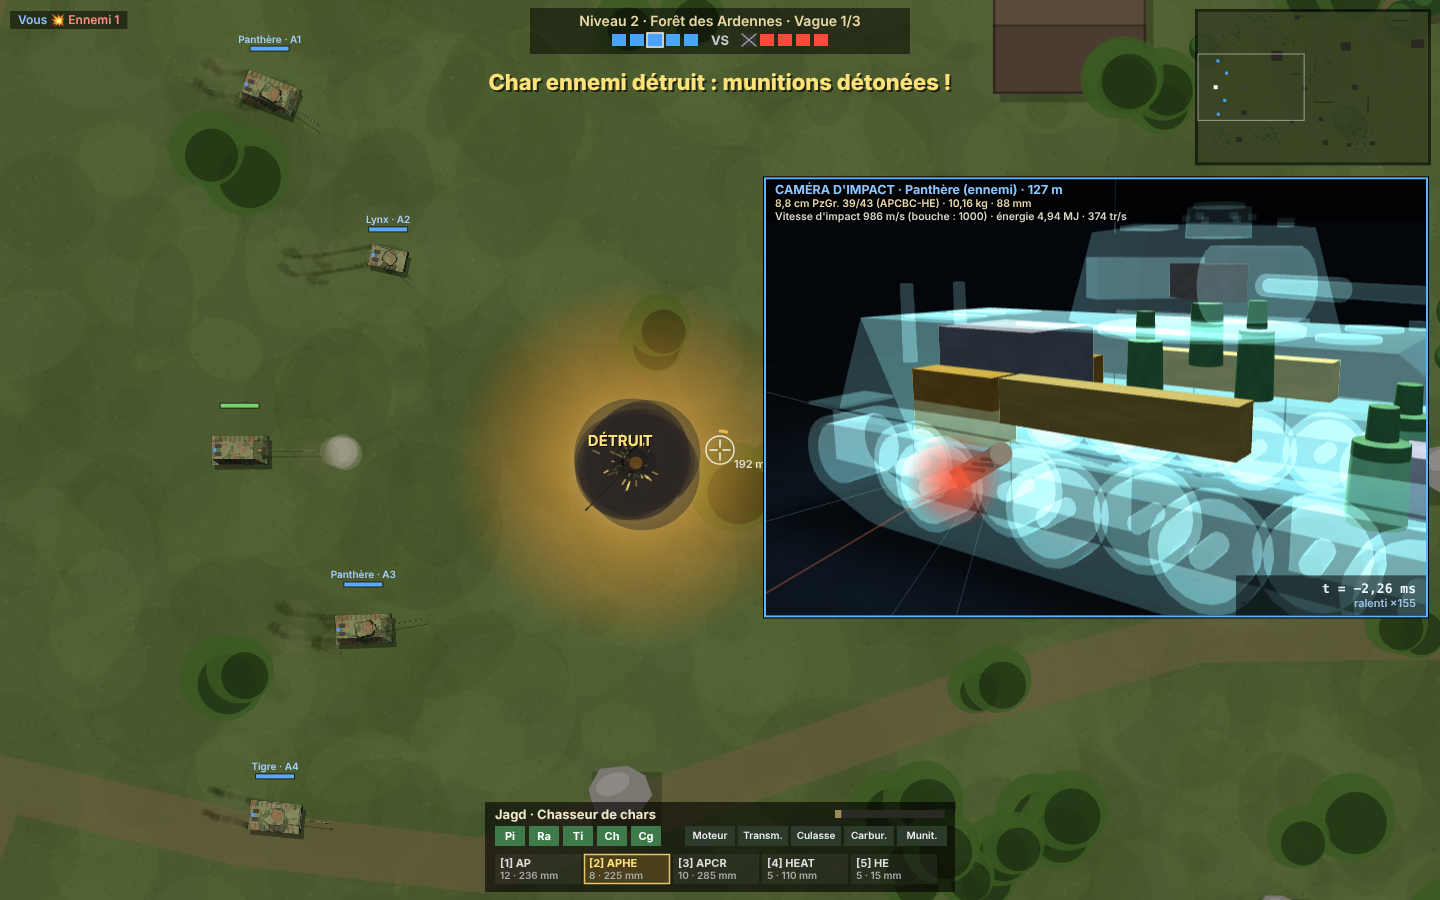
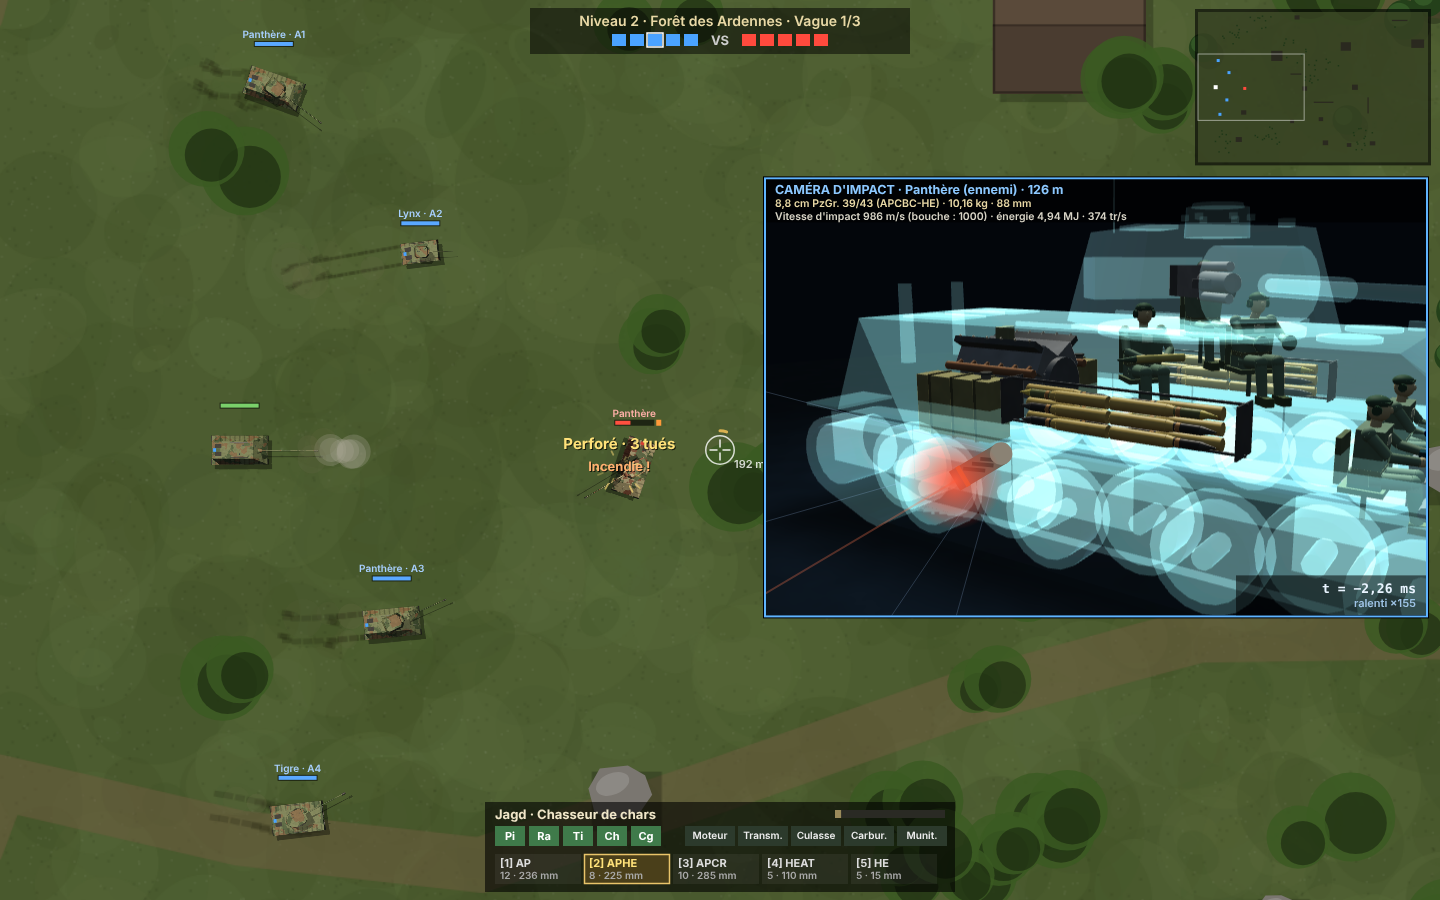
Détaille les modules de la vue rayons X : équipage humanoïde, moteur, soutes, culasse
- tankistes assis à leur poste (tenue, calot, casque radio, pose selon le rôle)
- moteur V12, transmission, réservoirs, obus rangés un par un, culasse avec freins de recul
- état des modules affiché par une teinte, étiquettes des modules dans la vitrine aux rayons X

Claude-Session: https://claude.ai/code/session_01UawdUy53uD1JS9wU4a7nKn

diff --git a/chars/models.js b/chars/models.js
@@ -329,6 +329,160 @@ const TankModels = (() => {
     return { S, I, hull: hb, turret: tb };
   }
 
+
+  // ===================== Modules internes détaillés (vue rayons X) =====================
+  // Chaque maillage est construit dans le repère du module (centre de sa boîte), à la vraie taille.
+  const UNI = '#4d5550', SKIN = '#d8a983', BOOT = '#2a1e16', CAP = '#1b1c1e', STEELM = '#6d7075', DARKM = '#34363a', BRASS = '#c9a24a';
+  // boîte inclinée autour de l'axe x (bancs de cylindres en V)
+  function tiltBox(b, cx, cy, cz, sx, sy, sz, a, col, mat) {
+    const c = Math.cos(a), s = Math.sin(a);
+    const pt = (x, y, z) => [cx + x, cy + y * c - z * s, cz + y * s + z * c];
+    const x0 = -sx / 2, x1 = sx / 2, y0 = -sy / 2, y1 = sy / 2, z0 = -sz / 2, z1 = sz / 2;
+    b.hexa([pt(x0, y0, z0), pt(x1, y0, z0), pt(x1, y1, z0), pt(x0, y1, z0)], [pt(x0, y0, z1), pt(x1, y0, z1), pt(x1, y1, z1), pt(x0, y1, z1)], col, mat);
+  }
+  // Membre d'équipage assis, tourné vers l'avant (+x), selon son poste
+  function crewMesh(b, sz, role) {
+    const k = sz / 1.05, z0 = -sz / 2;
+    const P = (x, y, z) => [x * k, y * k, z0 + z * k];
+    const cyl = (a, c, r0, r1, col) => b.cyl(P(...a), P(...c), r0 * k, (r1 == null ? r0 : r1) * k, 12, col, 7);
+    const sph = (c, rx, ry, rz, col) => b.sphere(P(...c), rx * k, (ry == null ? rx : ry) * k, (rz == null ? rx : rz) * k, 10, col, 7);
+    const box = (c, sx, sy, sz2, col) => { const q = P(...c); b.box(q[0], q[1], q[2], sx * k, sy * k, sz2 * k, col, 7); };
+    const lift = role === 'commander' ? 0.06 : 0;
+    // siège et dossier
+    box([-0.12, 0, 0.3 + lift], 0.38, 0.4, 0.05, '#3b3129');
+    box([-0.33, 0, 0.55 + lift], 0.05, 0.36, 0.42, '#3b3129');
+    cyl([-0.12, 0, 0.0], [-0.12, 0, 0.28 + lift], 0.025, null, DARKM);
+    // bassin, cuisses, jambes, bottes
+    box([-0.1, 0, 0.4 + lift], 0.28, 0.34, 0.15, UNI);
+    for (const sy of [1, -1]) {
+      cyl([-0.06, sy * 0.1, 0.4 + lift], [0.28, sy * 0.1, 0.43 + lift * 0.5], 0.078, 0.07, UNI);
+      sph([0.28, sy * 0.1, 0.43 + lift * 0.5], 0.07, null, null, UNI);
+      cyl([0.28, sy * 0.1, 0.43 + lift * 0.5], [0.34, sy * 0.1, 0.08], 0.062, 0.052, UNI);
+      box([0.39, sy * 0.1, 0.045], 0.22, 0.1, 0.09, BOOT);
+    }
+    // buste (tunique noire de tankiste, ceinturon)
+    const zt = 0.46 + lift;
+    b.hexa(
+      [P(-0.21, -0.17, zt), P(0.03, -0.17, zt), P(0.03, 0.17, zt), P(-0.21, 0.17, zt)],
+      [P(-0.19, -0.205, zt + 0.4), P(0.05, -0.205, zt + 0.4), P(0.05, 0.205, zt + 0.4), P(-0.19, 0.205, zt + 0.4)], UNI, 7);
+    box([-0.09, 0, zt + 0.02], 0.25, 0.35, 0.05, '#4a3626');
+    box([0.055, 0, zt + 0.3], 0.01, 0.12, 0.08, '#c8c4b0'); // insigne de col
+    // bras selon le poste
+    let hands;
+    if (role === 'commander') hands = [[0.08, 0.07, zt + 0.52], [0.08, -0.07, zt + 0.52]];
+    else if (role === 'loader') hands = [[0.27, 0.13, zt + 0.12], [0.27, -0.13, zt + 0.12]];
+    else if (role === 'driver') hands = [[0.34, 0.19, zt + 0.08], [0.34, -0.19, zt + 0.08]];
+    else hands = [[0.34, 0.16, zt + 0.18], [0.34, -0.16, zt + 0.18]];
+    for (let i = 0; i < 2; i++) {
+      const sy = i === 0 ? 1 : -1, sh = [-0.08, sy * 0.21, zt + 0.37];
+      const el = [Math.min(0.1, hands[i][0] - 0.12), sy * 0.25, (sh[2] + hands[i][2]) / 2 - 0.07];
+      sph(sh, 0.065, null, null, UNI);
+      cyl(sh, el, 0.052, 0.046, UNI);
+      cyl(el, hands[i], 0.046, 0.04, UNI);
+      sph(hands[i], 0.045, null, null, SKIN);
+    }
+    // cou, tête, calot et casque radio
+    const hz = zt + 0.56 + (role === 'commander' ? 0.04 : 0), hx = role === 'gunner' ? 0.0 : -0.05;
+    cyl([-0.07, 0, zt + 0.4], [hx - 0.01, 0, hz - 0.08], 0.048, null, SKIN);
+    sph([hx, 0, hz], 0.1, 0.085, 0.115, SKIN);
+    sph([hx + 0.095, 0, hz - 0.005], 0.022, 0.018, 0.03, SKIN); // nez
+    sph([hx - 0.01, 0, hz + 0.055], 0.108, 0.093, 0.065, CAP);   // calot
+    box([hx + 0.06, 0, hz + 0.06], 0.07, 0.15, 0.02, CAP);       // visière
+    for (const sy of [1, -1]) b.cyl(P(hx, sy * 0.082, hz), P(hx, sy * 0.115, hz), 0.042 * k, 0.042 * k, 12, '#111214', 7);
+    b.cyl(P(hx, 0.1, hz + 0.02), P(hx, -0.1, hz + 0.02), 0.008 * k, 0.008 * k, 6, '#111214', 7);
+    // accessoires du poste
+    if (role === 'commander') { box([0.13, 0, zt + 0.52], 0.1, 0.17, 0.06, '#222'); }
+    if (role === 'loader') { // obus dans les bras
+      b.cyl(P(0.3, 0.32, zt + 0.12), P(0.3, -0.22, zt + 0.12), 0.042 * k, 0.04 * k, 12, BRASS, 3);
+      b.cyl(P(0.3, -0.22, zt + 0.12), P(0.3, -0.42, zt + 0.12), 0.037 * k, 0.008 * k, 12, '#2a2a2a', 3);
+    }
+    if (role === 'driver') for (const sy of [1, -1]) cyl([0.36, sy * 0.19, 0.02], [0.34, sy * 0.19, zt + 0.1], 0.016, null, DARKM);
+    if (role === 'gunner') for (const sy of [1, -1]) b.cyl(P(0.36, sy * 0.16, zt + 0.18), P(0.4, sy * 0.16, zt + 0.18), 0.08 * k, 0.08 * k, 14, DARKM, 3);
+    if (role === 'radio') { box([0.35, 0, zt + 0.2], 0.1, 0.12, 0.08, '#222'); cyl([0.35, 0, zt + 0.2], [0.65, 0, zt + 0.22], 0.015, null, '#222'); }
+  }
+  function engineMesh(b, s) {
+    const [sx, sy, sz] = s;
+    b.box(0, 0, -sz * 0.22, sx * 0.92, sy * 0.5, sz * 0.48, '#55595f', 3);                 // carter
+    b.box(0, 0, -sz * 0.47, sx * 0.85, sy * 0.42, sz * 0.06, '#3a3c40', 3);                // carter d'huile
+    for (const sg of [1, -1]) {
+      const a = sg * 0.52;
+      tiltBox(b, 0, sg * sy * 0.17, sz * 0.12, sx * 0.88, sy * 0.24, sz * 0.32, a, '#62666c', 3);        // banc de cylindres
+      tiltBox(b, 0, sg * sy * 0.26, sz * 0.3, sx * 0.86, sy * 0.2, sz * 0.07, a, '#2f3134', 3);          // couvre-culasse
+      for (let i = 0; i < 6; i++) { // bougies et faisceaux
+        const x = -sx * 0.37 + i * sx * 0.148;
+        b.cyl([x, sg * sy * 0.3, sz * 0.34], [x, sg * sy * 0.34, sz * 0.4], 0.012, 0.012, 6, '#d8d0b0', 7);
+      }
+      b.cyl([-sx * 0.46, sg * sy * 0.42, sz * 0.05], [sx * 0.46, sg * sy * 0.42, sz * 0.05], 0.045, 0.045, 10, '#7a4a2e', 7); // collecteur
+      for (let i = 0; i < 6; i++) b.cyl([-sx * 0.37 + i * sx * 0.148, sg * sy * 0.33, sz * 0.1], [-sx * 0.37 + i * sx * 0.148, sg * sy * 0.42, sz * 0.05], 0.022, 0.022, 6, '#7a4a2e', 7);
+    }
+    b.cyl([sx * 0.44, 0, -sz * 0.12], [sx * 0.5, 0, -sz * 0.12], sz * 0.3, sz * 0.3, 22, '#3e4146', 3);      // volant moteur
+    for (const sg of [1, -1]) b.cyl([-sx * 0.12, sg * sy * 0.05, sz * 0.28], [-sx * 0.12, sg * sy * 0.05, sz * 0.48], 0.07, 0.07, 14, '#5a6040', 7); // filtres à air
+    b.cyl([-sx * 0.5, 0, sz * 0.05], [-sx * 0.44, 0, sz * 0.05], sz * 0.18, sz * 0.18, 16, '#4b4f55', 3);   // poulie
+  }
+  function transMesh(b, s) {
+    const [sx, sy, sz] = s;
+    b.box(0, 0, 0, sx * 0.75, sy * 0.62, sz * 0.75, '#5b5e66', 3);
+    for (let i = 0; i < 4; i++) b.box(-sx * 0.28 + i * sx * 0.19, 0, sz * 0.38, 0.025, sy * 0.6, 0.03, '#46494f', 3); // nervures
+    b.cyl([0, -sy * 1.4, -sz * 0.05], [0, sy * 1.4, -sz * 0.05], 0.05, 0.05, 12, '#3a3c40', 3);        // arbres de sortie
+    for (const sg of [1, -1]) b.cyl([0, sg * sy * 0.62, -sz * 0.05], [0, sg * sy * 0.9, -sz * 0.05], sz * 0.32, sz * 0.32, 18, '#4a4d53', 3); // freins de direction
+    b.cyl([-sx * 0.1, 0, sz * 0.37], [-sx * 0.2, 0, sz * 0.75], 0.015, 0.015, 6, '#222', 3);            // levier
+    b.sphere([-sx * 0.2, 0, sz * 0.77], 0.03, 0.03, 0.03, 8, '#222', 7);
+    b.cyl([sx * 0.5, 0, -sz * 0.05], [sx * 0.37, 0, -sz * 0.05], 0.06, 0.06, 12, '#3a3c40', 3);         // arbre de transmission
+  }
+  function fuelMesh(b, s) {
+    const [sx, sy, sz] = s;
+    b.box(0, 0, 0, sx * 0.9, sy * 0.86, sz * 0.86, '#6e6c3e', 7);
+    for (const f of [-0.28, 0, 0.28]) b.box(f * sx, 0, 0, 0.03, sy * 0.9, sz * 0.9, '#3d3b22', 7);   // sangles
+    b.cyl([sx * 0.3, 0, sz * 0.43], [sx * 0.3, 0, sz * 0.5], 0.05, 0.05, 12, '#55534a', 3);          // goulot
+    b.cyl([sx * 0.3, 0, sz * 0.5], [sx * 0.3, 0, sz * 0.53], 0.065, 0.065, 12, '#2a2a28', 3);        // bouchon
+  }
+  // Soute : obus rangés un par un (douille en laiton, projectile)
+  function ammoMesh(b, s, cal) {
+    const [sx, sy, sz] = s, d = cal / 1000;
+    const Lr = Math.min(sx * 0.95, d * 11.8), caseR = d * 0.72, pr = d / 2;
+    const nx = Math.max(1, Math.floor(sx / (Lr + 0.04))), ny = Math.max(1, Math.floor(sy / (caseR * 2.2))), nz = Math.max(1, Math.floor(sz / (caseR * 2.2)));
+    const sx0 = -(nx * (Lr + 0.04)) / 2;
+    let n = 0;
+    for (let ix = 0; ix < nx; ix++) for (let iy = 0; iy < ny; iy++) for (let iz = 0; iz < nz; iz++) {
+      if (n++ > 42) break;
+      const x0 = sx0 + ix * (Lr + 0.04) + 0.02, y = -sy / 2 + caseR * 1.1 + iy * caseR * 2.2, z = -sz / 2 + caseR * 1.1 + iz * caseR * 2.2;
+      const he = (iy + iz) % 3 === 2;
+      const dir = (ix + iy) % 2 ? 1 : -1;
+      const a = dir > 0 ? x0 : x0 + Lr, f = v => a + dir * v;
+      b.cyl([f(0), y, z], [f(Lr * 0.55), y, z], caseR, caseR * 0.95, 12, BRASS, 3);                       // douille
+      b.cyl([f(Lr * 0.55), y, z], [f(Lr * 0.62), y, z], caseR * 0.95, pr * 1.05, 12, BRASS, 3);           // épaulement
+      b.cyl([f(Lr * 0.62), y, z], [f(Lr * 0.86), y, z], pr, pr, 12, he ? '#5c6438' : '#1f1f20', 3);      // projectile
+      b.cyl([f(Lr * 0.86), y, z], [f(Lr), y, z], pr, pr * 0.15, 12, he ? '#c9b240' : '#2b2b2c', 3);      // ogive
+      b.cyl([f(Lr * 0.64), y, z], [f(Lr * 0.68), y, z], pr * 1.04, pr * 1.04, 12, '#b0703a', 3);         // ceinture
+    }
+    for (const sg of [1, -1]) b.box(sg * sx * 0.49, 0, 0, 0.015, sy, sz, '#2f3134', 3);                // flasques du râtelier
+    for (const sg of [1, -1]) b.cyl([-sx / 2, 0, sg * sz * 0.48], [sx / 2, 0, sg * sz * 0.48], 0.012, 0.012, 6, '#2f3134', 3);
+  }
+  function breechMesh(b, s, cal) {
+    const [sx, sy, sz] = s, d = cal / 1000;
+    b.box(-sx * 0.2, 0, 0, sx * 0.36, sy * 0.9, sz * 0.9, '#6c6f73', 3);                           // bloc de culasse
+    b.box(-sx * 0.2, sy * 0.5, 0, sx * 0.18, sy * 0.15, sz * 0.4, '#4b4e52', 3);                   // levier d'ouverture
+    b.cyl([-sx * 0.02, 0, 0], [sx * 0.5, 0, 0], d * 1.25, d * 1.1, 16, '#5e6166', 3);              // tube
+    b.cyl([-sx * 0.1, 0, sz * 0.42], [sx * 0.45, 0, sz * 0.42], d * 0.55, d * 0.55, 12, '#7a7d82', 3);  // frein de recul
+    b.cyl([-sx * 0.1, 0, -sz * 0.42], [sx * 0.45, 0, -sz * 0.42], d * 0.55, d * 0.55, 12, '#7a7d82', 3); // récupérateur
+    b.box(sx * 0.15, 0, -sz * 0.05, sx * 0.25, sy * 1.0, sz * 0.25, '#4b4e52', 3);                 // berceau
+    for (const sg of [1, -1]) b.box(-sx * 0.42, sg * sy * 0.45, 0, sx * 0.16, 0.02, sz * 0.9, '#3b3d40', 3); // garde de recul
+    b.box(-sx * 0.5, 0, 0, 0.02, sy * 0.9, sz * 0.9, '#3b3d40', 3);
+    b.cyl([sx * 0.1, sy * 0.62, -sz * 0.2], [sx * 0.1, sy * 0.68, -sz * 0.2], sz * 0.3, sz * 0.3, 16, DARKM, 3); // volant de pointage
+  }
+  function moduleMesh(m, cal) {
+    const b = new G3.Builder();
+    switch (m.kind) {
+      case 'crew': crewMesh(b, m.s[2], m.role); break;
+      case 'engine': engineMesh(b, m.s); break;
+      case 'trans': transMesh(b, m.s); break;
+      case 'fuel': fuelMesh(b, m.s); break;
+      case 'ammo': ammoMesh(b, m.s, cal); break;
+      default: breechMesh(b, m.s, cal);
+    }
+    return b;
+  }
+
   // Maillages unitaires pour les modules internes de la vue rayons X
   function moduleMeshes() {
     const box = new G3.Builder();
@@ -339,5 +493,5 @@ const TankModels = (() => {
     return { box, crew };
   }
 
-  return { SPECS, NAMES, info, build, makeModules, moduleMeshes };
+  return { SPECS, NAMES, info, build, makeModules, moduleMeshes, moduleMesh };
 })();

diff --git a/chars/game.js b/chars/game.js
@@ -204,7 +204,7 @@
 
   // ===================== 3D : maillages et sprites =====================
   let R3 = null;
-  const MESH = {}, SPR = {};
+  const MESH = {}, SPR = {}, MODMESH = {};
   try { R3 = G3.createRenderer(); } catch (e) { R3 = null; console.warn('WebGL indisponible', e); }
   const SP = 22; // pixels par mètre dans les sprites
   function topRender(mesh, hx, hy, opts) {
@@ -232,6 +232,7 @@
       for (const id of Object.keys(TYPES)) {
         const b = TankModels.build(id);
         MESH[id] = { hull: R3.upload(b.hull), turret: R3.upload(b.turret) };
+        MODMESH[id] = TankModels.makeModules(id).map(m => R3.upload(TankModels.moduleMesh(m, TYPES[id].caliber)));
         const I = TYPES[id].I, Sd = I.S;
         const hx = Sd.L / 2 + 0.25, hy = Sd.W / 2 + 0.25;
         let rt = I.gunEnd + 0.3;
@@ -246,7 +247,7 @@
         sp.hullSh = silhouette(sp.hull[0]); sp.turSh = silhouette(sp.tur[0]);
         SPR[id] = sp;
       }
-      HitCam.init(R3, MESH);
+      HitCam.init(R3, MESH, MODMESH);
     } catch (e) { console.warn('Rendu 3D désactivé', e); R3 = null; }
   }
 
@@ -2134,21 +2135,19 @@
   // ===================== Vitrine 3D du menu =====================
   const viewer = { ang: 0.8, elev: 0.33, drag: null, xray: false, dist: 1 };
   const groundMesh = R3 ? (() => { const g = new G3.Builder(); g.ground(16, 64); return R3.upload(g); })() : null;
-  const modMeshes = R3 ? (() => { const u = TankModels.moduleMeshes(); return { box: R3.upload(u.box), crew: R3.upload(u.crew) }; })() : null;
-  const MOD_COL = { crew: [0.3, 0.78, 0.42], engine: [0.55, 0.6, 0.68], trans: [0.6, 0.52, 0.7], fuel: [0.9, 0.62, 0.16], ammo: [0.92, 0.78, 0.3], breech: [0.62, 0.62, 0.62] };
   function drawTank3D(id, w, h, ang, elev, xray, turretAng, clear) {
     const M4 = G3.M4, I = TYPES[id].I, Sd = I.S;
     R3.begin(w, h, clear);
-    const d = 6.2 + Sd.L * 0.75;
+    const d = (6.2 + Sd.L * 0.75) * (xray ? 0.72 : 1);
     const eye = [Math.cos(ang) * Math.cos(elev) * d, Math.sin(ang) * Math.cos(elev) * d, Math.sin(elev) * d + 1.0];
     R3.camera(M4.lookAt(eye, [0, 0, Sd.ht * 0.6], [0, 0, 1]), M4.persp(0.6, w / h, 0.1, 200), eye, [-0.55, 0.35, 0.75]);
     R3.draw(groundMesh, M4.ident(), { ground: xray ? [0.05, 0.09, 0.13] : [0.24, 0.22, 0.18], shadow: [Sd.L / 2, Sd.W / 2, 0.45, -0.3] });
     const tm = M4.trs(I.pivotX, I.pivotY, 0, turretAng);
     if (xray) {
-      for (const m of TankModels.makeModules(id)) {
+      TankModels.makeModules(id).forEach((m, i) => {
         const frame = m.frame === 'turret' ? tm : M4.ident();
-        R3.draw(m.kind === 'crew' ? modMeshes.crew : modMeshes.box, M4.mul(frame, M4.trs(m.c[0], m.c[1], m.c[2], 0, m.s[0], m.s[1], m.s[2])), { color: MOD_COL[m.kind] });
-      }
+        R3.draw(MODMESH[id][i], M4.mul(frame, M4.trs(m.c[0], m.c[1], m.c[2], 0)), {});
+      });
       R3.draw(MESH[id].hull, M4.ident(), { xray: true, alpha: 0.95, additive: true });
       R3.draw(MESH[id].turret, tm, { xray: true, alpha: 0.95, additive: true });
     } else {
@@ -2162,8 +2161,42 @@
     const w = Math.round(vc.clientWidth * DPR), h = Math.round(vc.clientHeight * DPR);
     if (vc.width !== w || vc.height !== h) { vc.width = w; vc.height = h; }
     if (!viewer.drag) viewer.ang += dt * 0.22;
-    drawTank3D(chosenType, w, h, viewer.ang, viewer.elev, viewer.xray, Math.sin(viewerT * 0.4) * 0.35, [0.07, 0.08, 0.07, 1]);
-    vc.getContext('2d').drawImage(R3.canvas, 0, 0);
+    const ta = Math.sin(viewerT * 0.4) * 0.35;
+    drawTank3D(chosenType, w, h, viewer.ang, viewer.elev, viewer.xray, ta, [0.07, 0.08, 0.07, 1]);
+    const c2 = vc.getContext('2d');
+    c2.drawImage(R3.canvas, 0, 0);
+    if (viewer.xray) {
+      // noms des modules, reliés à leur position
+      const I = TYPES[chosenType].I, tm = G3.M4.trs(I.pivotX, I.pivotY, 0, ta);
+      const seen = new Set(), labels = [];
+      c2.font = `600 ${Math.round(11 * DPR)}px system-ui, sans-serif`;
+      c2.textAlign = 'center';
+      for (const m of TankModels.makeModules(chosenType)) {
+        if (seen.has(m.name)) continue;
+        seen.add(m.name);
+        const top = [m.c[0], m.c[1], m.c[2] + m.s[2] / 2];
+        const q = R3.project(m.frame === 'turret' ? G3.M4.apply(tm, top) : top, w, h);
+        labels.push({ m, q, tw: c2.measureText(m.name).width + 10 * DPR });
+      }
+      // répartition sur plusieurs lignes pour éviter les chevauchements
+      labels.sort((a, b) => a.q.y - b.q.y);
+      const rows = [];
+      for (const L of labels) {
+        let r = 0;
+        while ((rows[r] || []).some(o => Math.abs(o.q.x - L.q.x) < (o.tw + L.tw) / 2 + 4 * DPR)) r++;
+        (rows[r] = rows[r] || []).push(L);
+        L.row = r;
+      }
+      for (const L of labels) {
+        const ly = (18 + L.row * 18) * DPR;
+        c2.strokeStyle = 'rgba(255,255,255,0.4)'; c2.lineWidth = DPR;
+        c2.beginPath(); c2.moveTo(L.q.x, L.q.y); c2.lineTo(L.q.x, ly + 4 * DPR); c2.stroke();
+        c2.fillStyle = 'rgba(0,0,0,0.65)'; c2.fillRect(L.q.x - L.tw / 2, ly - 12 * DPR, L.tw, 16 * DPR);
+        const k = L.m.kind;
+        c2.fillStyle = k === 'crew' ? '#9fe0a8' : k === 'ammo' ? '#f0d27a' : k === 'fuel' ? '#ffb45a' : '#cfd6e0';
+        c2.fillText(L.m.name, L.q.x, ly);
+      }
+    }
   }
 
   // ===================== Écrans =====================

diff --git a/chars/gl3d.js b/chars/gl3d.js
@@ -125,6 +125,20 @@ const G3 = (() => {
         }
       }
     }
+    // Ellipsoïde (sphère si rx = ry = rz), normales lissées
+    sphere(c, rx, ry, rz, seg, col, mat) {
+      const pt = (i, j) => {
+        const th = i / seg * Math.PI, ph = j / seg * Math.PI * 2;
+        const n = [Math.sin(th) * Math.cos(ph), Math.sin(th) * Math.sin(ph), Math.cos(th)];
+        const l = Math.hypot(n[0] / rx, n[1] / ry, n[2] / rz) || 1;
+        return { p: [c[0] + n[0] * rx, c[1] + n[1] * ry, c[2] + n[2] * rz], n: [n[0] / rx / l, n[1] / ry / l, n[2] / rz / l] };
+      };
+      for (let i = 0; i < seg; i++) for (let j = 0; j < seg; j++) {
+        const a = pt(i, j), b = pt(i + 1, j), cc = pt(i + 1, j + 1), d = pt(i, j + 1);
+        this.triN(a.p, b.p, cc.p, a.n, b.n, cc.n, col, mat);
+        this.triN(a.p, cc.p, d.p, a.n, cc.n, d.n, col, mat);
+      }
+    }
     // Bande de chenille autour d'une boucle convexe (x, z), entre y0 et y1
     band(loop, th, y0, y1, col, mat) {
       let cx = 0, cz = 0;
@@ -174,7 +188,7 @@ precision highp float;
 varying vec3 vW; varying vec3 vN; varying vec3 vC; varying vec3 vO; varying float vM;
 uniform vec3 uLight; uniform vec3 uEye;
 uniform vec3 uCamo0; uniform vec3 uCamo1; uniform vec3 uCamo2;
-uniform float uBurnt; uniform float uXray; uniform float uAlpha; uniform vec4 uColOv;
+uniform float uBurnt; uniform float uXray; uniform float uAlpha; uniform vec4 uColOv; uniform vec4 uTint;
 uniform vec4 uShadow; uniform vec3 uGround; uniform float uSeed; uniform float uTop;
 float h3(vec3 p){ p = fract(p * 0.3183099 + 0.1); p *= 17.0; return fract(p.x * p.y * p.z * (p.x + p.y + p.z)); }
 float n3(vec3 x){
@@ -216,6 +230,7 @@ void main(){
   } else if (vM < 3.5) { base = vC; }
   else if (vM < 4.5) { base = vC; }
   if (uColOv.w > 0.5) { base = uColOv.rgb; paint = 0.2; }
+  if (uTint.w > 0.0) { base = mix(base, uTint.rgb, uTint.w); paint = 0.0; }
   // usure : salissures, boue sur le bas, éclats de peinture
   float grime = fbm(P * 5.0);
   base *= 0.82 + 0.32 * grime;
@@ -267,7 +282,7 @@ void main(){
     gl.useProgram(prog);
     const A = {}, U = {};
     for (const n of ['aPos', 'aNor', 'aCol', 'aMat']) A[n] = gl.getAttribLocation(prog, n);
-    for (const n of ['uVP', 'uModel', 'uLight', 'uEye', 'uCamo0', 'uCamo1', 'uCamo2', 'uBurnt', 'uXray', 'uAlpha', 'uColOv', 'uShadow', 'uGround', 'uSeed', 'uTop']) U[n] = gl.getUniformLocation(prog, n);
+    for (const n of ['uVP', 'uModel', 'uLight', 'uEye', 'uCamo0', 'uCamo1', 'uCamo2', 'uBurnt', 'uXray', 'uAlpha', 'uColOv', 'uTint', 'uShadow', 'uGround', 'uSeed', 'uTop']) U[n] = gl.getUniformLocation(prog, n);
     gl.enable(gl.DEPTH_TEST);
     gl.disable(gl.CULL_FACE);
 
@@ -310,6 +325,7 @@ void main(){
         gl.uniform1f(U.uXray, o.xray ? 1 : 0);
         gl.uniform1f(U.uAlpha, o.alpha == null ? 1 : o.alpha);
         gl.uniform4fv(U.uColOv, o.color ? [o.color[0], o.color[1], o.color[2], 1] : [0, 0, 0, 0]);
+        gl.uniform4fv(U.uTint, o.tint || [0, 0, 0, 0]);
         gl.uniform4fv(U.uShadow, o.shadow || [1, 1, 0, 0]);
         gl.uniform3fv(U.uGround, o.ground || [0.3, 0.3, 0.3]);
         gl.uniform1f(U.uSeed, o.seed || 0);

diff --git a/chars/xray.js b/chars/xray.js
@@ -20,6 +20,15 @@ const HitCam = (() => {
   const smooth = (a, b, x) => { const t = Math.min(1, Math.max(0, (x - a) / (b - a))); return t * t * (3 - 2 * t); };
   const fmt = (v, d = 0) => v.toFixed(d).replace('.', ',');
 
+  // Teinte d'état appliquée au modèle détaillé (r = intégrité, de 0 à 1)
+  function modTint(kind, r) {
+    if (kind === 'crew') {
+      if (r <= 0) return [0.75, 0.05, 0.04, 0.62];
+      return r > 0.99 ? [0.35, 0.95, 0.5, 0.16] : [1, 0.55, 0.12, 0.45];
+    }
+    if (r <= 0) return [0.3, 0.03, 0.02, 0.7];
+    return r > 0.99 ? [0, 0, 0, 0] : [1, 0.45, 0.1, 0.42];
+  }
   function modColor(kind, r) {
     if (kind === 'crew') {
       if (r <= 0) return [0.5, 0.06, 0.05];
@@ -29,10 +38,9 @@ const HitCam = (() => {
     return r > 0.99 ? BASE[kind] : lerp3([0.95, 0.3, 0.08], BASE[kind], r * 0.7);
   }
 
-  function init(renderer, meshes) {
-    R = renderer; tankMeshes = meshes;
-    const u = TankModels.moduleMeshes();
-    mm = { box: R.upload(u.box), crew: R.upload(u.crew) };
+  let modMeshes = null;
+  function init(renderer, meshes, mods) {
+    R = renderer; tankMeshes = meshes; modMeshes = mods;
     const g = new G3.Builder(); g.ground(14, 48); ground = R.upload(g);
   }
   function play(ev) {
@@ -97,10 +105,10 @@ const HitCam = (() => {
       const on = th != null && tp >= th;
       const r = on ? ev.after[i] : ev.before[i];
       const frame = m.frame === 'turret' ? tm : M4.ident();
-      const model = M4.mul(frame, M4.trs(m.c[0], m.c[1], m.c[2], 0, m.s[0], m.s[1], m.s[2]));
-      let col = modColor(m.kind, r);
-      if (on && tp < th + ev.tEnd * 0.06) col = [1, 0.95, 0.75];
-      R.draw(m.kind === 'crew' ? mm.crew : mm.box, model, { color: col });
+      const model = M4.mul(frame, M4.trs(m.c[0], m.c[1], m.c[2], 0));
+      let tint = modTint(m.kind, r);
+      if (on && tp < th + ev.tEnd * 0.06) tint = [1, 0.95, 0.8, 0.75];
+      R.draw(modMeshes[ev.typeId][i], model, { tint });
     });
     const M = tankMeshes[ev.typeId];
     R.draw(M.hull, M4.ident(), { xray: true, alpha: 0.6, additive: true });

diff --git a/chars/README.md b/chars/README.md
@@ -40,8 +40,15 @@ Les modèles sont construits par le code (`models.js`) et rendus par un petit mo
 (`gl3d.js`) : plaques de blindage inclinées, galets entrelacés, chenilles, jupes, frein de bouche,
 tourelleau, échappements. Le camouflage trois tons, la boue, les salissures et les éclats de
 peinture sont procéduraux. Dans le menu, la vitrine tourne autour du char choisi (à la souris ou au
-doigt), et le bouton **Rayons X** montre l'emplacement de l'équipage, du moteur, des munitions, de la
-culasse et des réservoirs. En jeu, les chars vus de dessus sont rendus à partir des mêmes modèles.
+doigt). Le bouton **Rayons X** montre l'intérieur, chaque module étant nommé :
+
+- l'équipage : des tankistes assis à leur poste, en tenue noire avec calot et casque radio, le pilote
+  aux leviers, le tireur aux volants de pointage, le chargeur un obus dans les bras, le chef à ses jumelles ;
+- le moteur V12, avec ses bancs de cylindres, ses collecteurs et son volant moteur ;
+- la transmission, avec ses freins de direction ;
+- les réservoirs ;
+- les soutes, avec les obus rangés un par un (douille en laiton, projectile perforant ou explosif) ;
+- la culasse, avec ses freins de recul et son volant de pointage. En jeu, les chars vus de dessus sont rendus à partir des mêmes modèles.
 
 ## Obus et physique
 
